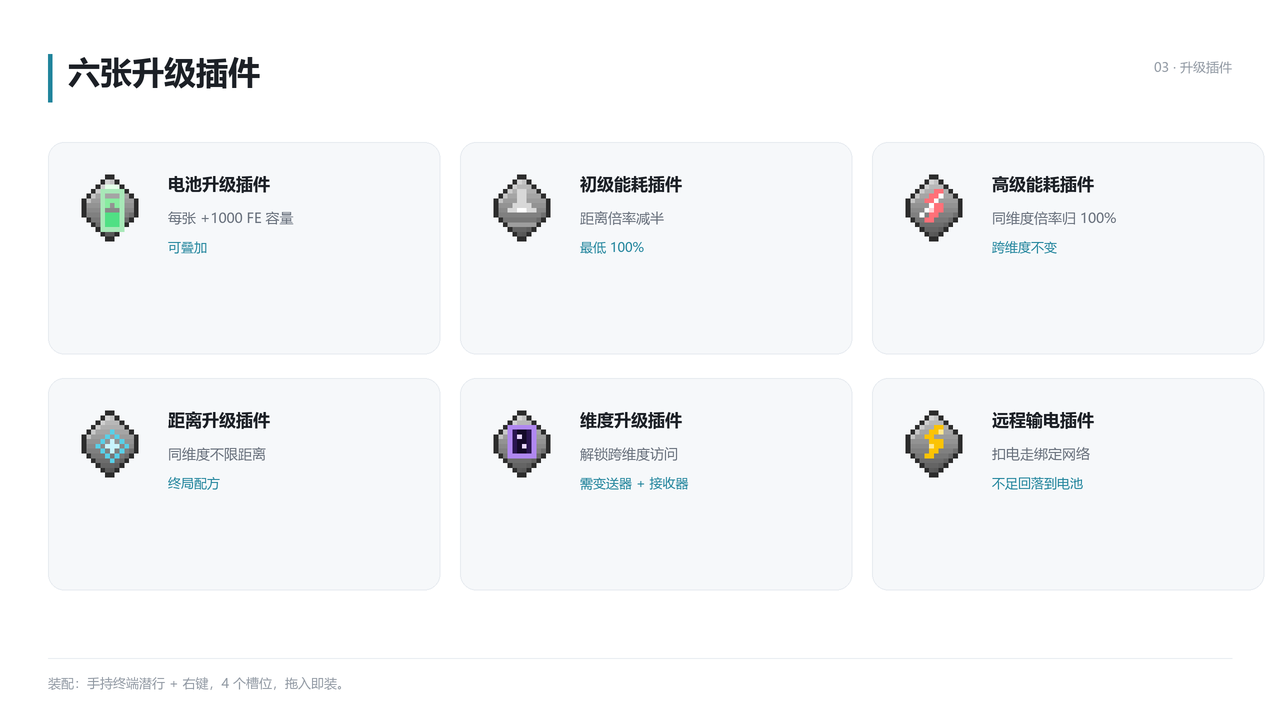
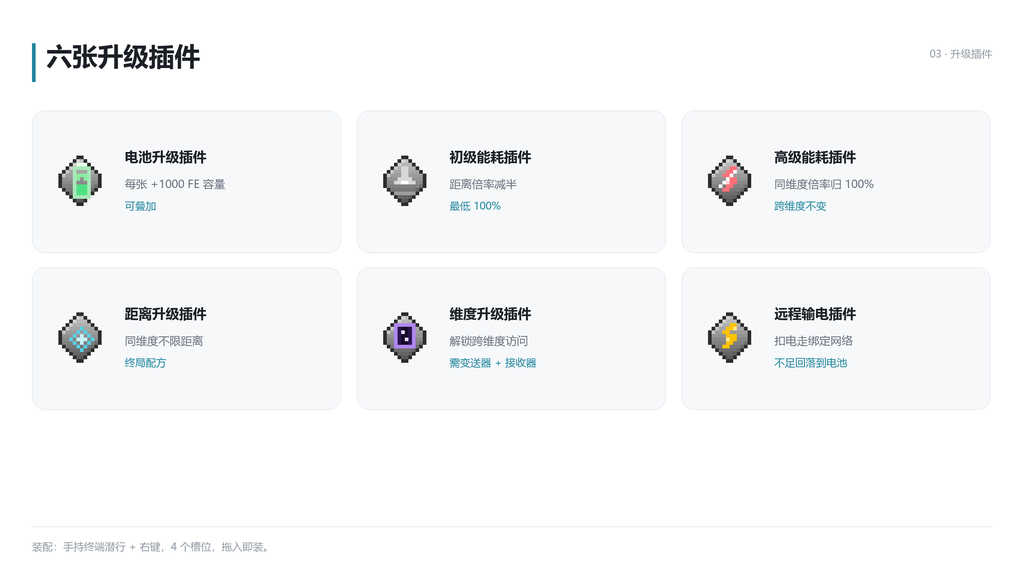
docs(mcmod): 配图缩到 1024×576 并收紧排版

diff --git a/gen_mcmod_sheets.py b/gen_mcmod_sheets.py
@@ -35,7 +35,8 @@ LANG_ZH = os.path.join(
 )
 
 W, H = 1280, 720
-MARGIN = 48
+OUT_W, OUT_H = 1024, 576
+MARGIN = 40
 
 BG = (255, 255, 255)
 CARD = (255, 255, 255)
@@ -76,6 +77,9 @@ TAGS = {
     "c:glass_blocks": "glass",
     "c:ingots/copper": "copper_ingot",
     "c:ingots/netherite": "netherite_ingot",
+}
+RS_TAGS = {
+    "refinedstorage:crafting_grids": "crafting_grid",
 }
 RS_SPECIAL = {
     "machine_casing": "block/machine_casing/side.png",
@@ -155,6 +159,8 @@ def ingredient_icon(spec):
             im = jar_png("assets/minecraft/textures/item/%s.png" % name)
             if im is None:
                 im = jar_png("assets/minecraft/textures/block/%s.png" % name)
+    elif spec["tag"] in RS_TAGS:
+        im = rs_icon(RS_TAGS[spec["tag"]])
     elif spec["tag"] in TAGS:
         name = TAGS[spec["tag"]]
         im = jar_png("assets/minecraft/textures/item/%s.png" % name)
@@ -185,9 +191,9 @@ def frame(kicker, title, sub=None, note=None):
     d = ImageDraw.Draw(img)
 
     d.rectangle([M.sc(MARGIN), M.sc(54), M.sc(MARGIN + 4), M.sc(102)], fill=ACCENT)
-    M.text(d, (MARGIN + 20, 50), title, 32, INK, bold=True)
+    M.text(d, (MARGIN + 18, 48), title, 32, INK, bold=True)
     if sub:
-        M.text(d, (MARGIN + 20, 96), sub, 15, SUB)
+        M.text(d, (MARGIN + 18, 94), sub, 15, SUB)
     M.text(d, (W - MARGIN, 58), kicker, 13, MUTED, anchor="ra")
 
     if note:
@@ -212,7 +218,7 @@ def tile(img, x, y, size, icon_img, name, note, name_size=14, note_size=11, pad_
 
 
 def save(img, path):
-    img.convert("RGB").resize((W, H), Image.LANCZOS).save(path)
+    img.convert("RGB").resize((OUT_W, OUT_H), Image.LANCZOS).save(path)
     print("wrote", path)
 
 
@@ -250,7 +256,7 @@ def overview(path):
     for i, (key, name) in enumerate(ITEMS):
         r, c = divmod(i, cols)
         x = MARGIN + c * (cw + gap_x)
-        y = 132 + r * (132 + gap_y)
+        y = 126 + r * (128 + gap_y)
         tile(img, x + (cw - 96) / 2, y, 96, icon(key), name, None, name_size=13)
     save(img, path)
 
@@ -305,19 +311,19 @@ def upgrades(path):
         ("interdimensional_upgrade", "维度升级插件", "解锁跨维度访问", "需变送器 + 接收器"),
         ("remote_energy_upgrade", "远程输电插件", "扣电走绑定网络", "不足回落到电池"),
     ]
-    cw, ch = 392, 212
+    cw, ch = 386, 178
     gap = 20
     for i, (key, name, eff, note) in enumerate(data):
         r, c = divmod(i, 3)
         x = MARGIN + c * (cw + gap)
-        y = 142 + r * (ch + 24)
+        y = 138 + r * (ch + 18)
         d.rounded_rectangle([M.sc(x), M.sc(y), M.sc(x + cw), M.sc(y + ch)],
                             radius=M.sc(16), fill=TILE, outline=TILE_BORDER, width=M.sc(1))
-        img.alpha_composite(icon(key).resize((M.sc(76), M.sc(76)), Image.NEAREST),
-                            (M.sc(x + 24), M.sc(y + 28)))
-        M.text(d, (x + 120, y + 30), name, 17, INK, bold=True)
-        M.text(d, (x + 120, y + 66), eff, 14, SUB)
-        M.text(d, (x + 120, y + 96), note, 13, ACCENT)
+        img.alpha_composite(icon(key).resize((M.sc(72), M.sc(72)), Image.NEAREST),
+                            (M.sc(x + 24), M.sc(y + 52)))
+        M.text(d, (x + 116, y + 46), name, 17, INK, bold=True)
+        M.text(d, (x + 116, y + 82), eff, 14, SUB)
+        M.text(d, (x + 116, y + 110), note, 13, ACCENT)
     save(img, path)
 
 
@@ -340,10 +346,10 @@ def devices_tools(path):
     total = len(devices) * size + (len(devices) - 1) * gap
     x = (W - total) / 2
     for key, name, note in devices:
-        tile(img, x, 146, size, icon(key), name, note, name_size=13, note_size=11)
+        tile(img, x, 136, size, icon(key), name, note, name_size=13, note_size=11)
         x += size + gap
 
-    d.line([M.sc(MARGIN), M.sc(378), M.sc(W - MARGIN), M.sc(378)], fill=DIVIDER, width=M.sc(1))
+    d.line([M.sc(MARGIN), M.sc(362), M.sc(W - MARGIN), M.sc(362)], fill=DIVIDER, width=M.sc(1))
 
     tools = [
         ("wireless_connector", "无线连接器", "绑定方块设备"),
@@ -352,18 +358,18 @@ def devices_tools(path):
     ]
     x = MARGIN
     for key, name, note in tools:
-        tile(img, x, 418, 140, icon(key), name, note, name_size=13, note_size=11)
-        x += 140 + 22
+        tile(img, x, 400, 152, icon(key), name, note, name_size=13, note_size=11)
+        x += 152 + 24
 
     bx = 520
-    M.text(d, (bx, 422), "绑定方块设备的方式", 15, INK, bold=True)
+    M.text(d, (bx, 404), "绑定方块设备的方式", 15, INK, bold=True)
     steps = [
         "① 手持连接器，右键任意精致存储网络方块，记录接入点",
         "② 右键要绑定的设备，完成绑定；两端亮起光环与粒子线",
         "③ 再次右键已绑定的设备即解绑；潜行右键清除记录",
     ]
     for i, line in enumerate(steps):
-        M.text(d, (bx, 458 + i * 42), line, 13, SUB)
+        M.text(d, (bx, 440 + i * 42), line, 13, SUB)
     save(img, path)
 
 

diff --git a/docs/MCMOD.md b/docs/MCMOD.md
@@ -181,7 +181,7 @@
 
 ## 三、图片清单
 
-共 8 张：1 张封面 + 7 张 16:9（1280×720）正文配图。每张对应正文一个板块，版式统一（左上标题、右上板块编号，不写副标题），图片只保留名称与数值，不写说明性文案。均在编辑器内本地上传，文件位于 `docs/images/`。
+共 8 张：1 张封面 + 7 张 16:9（1024×576）正文配图。每张对应正文一个板块，版式统一（左上标题、右上板块编号，不写副标题），图片只保留名称与数值，不写说明性文案。均在编辑器内本地上传，文件位于 `docs/images/`。
 
 | 顺序 | 文件 | 对应标题 | 内容 |
 |---|---|---|---|
